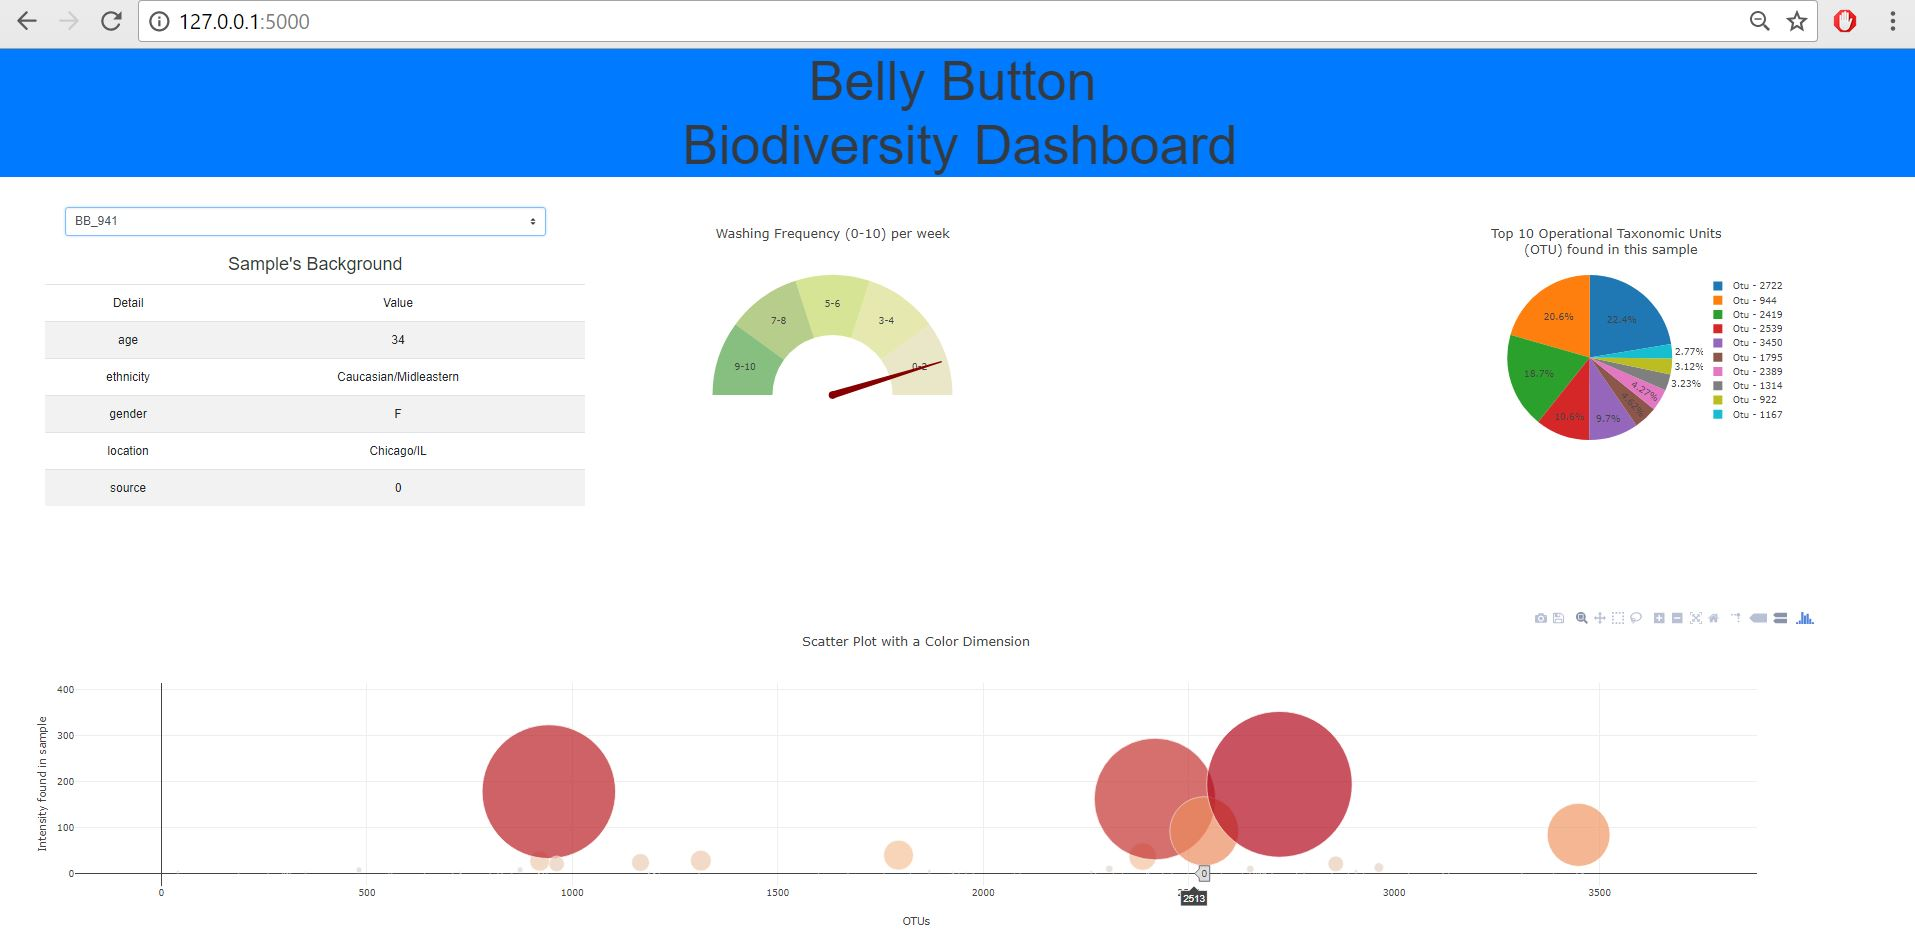
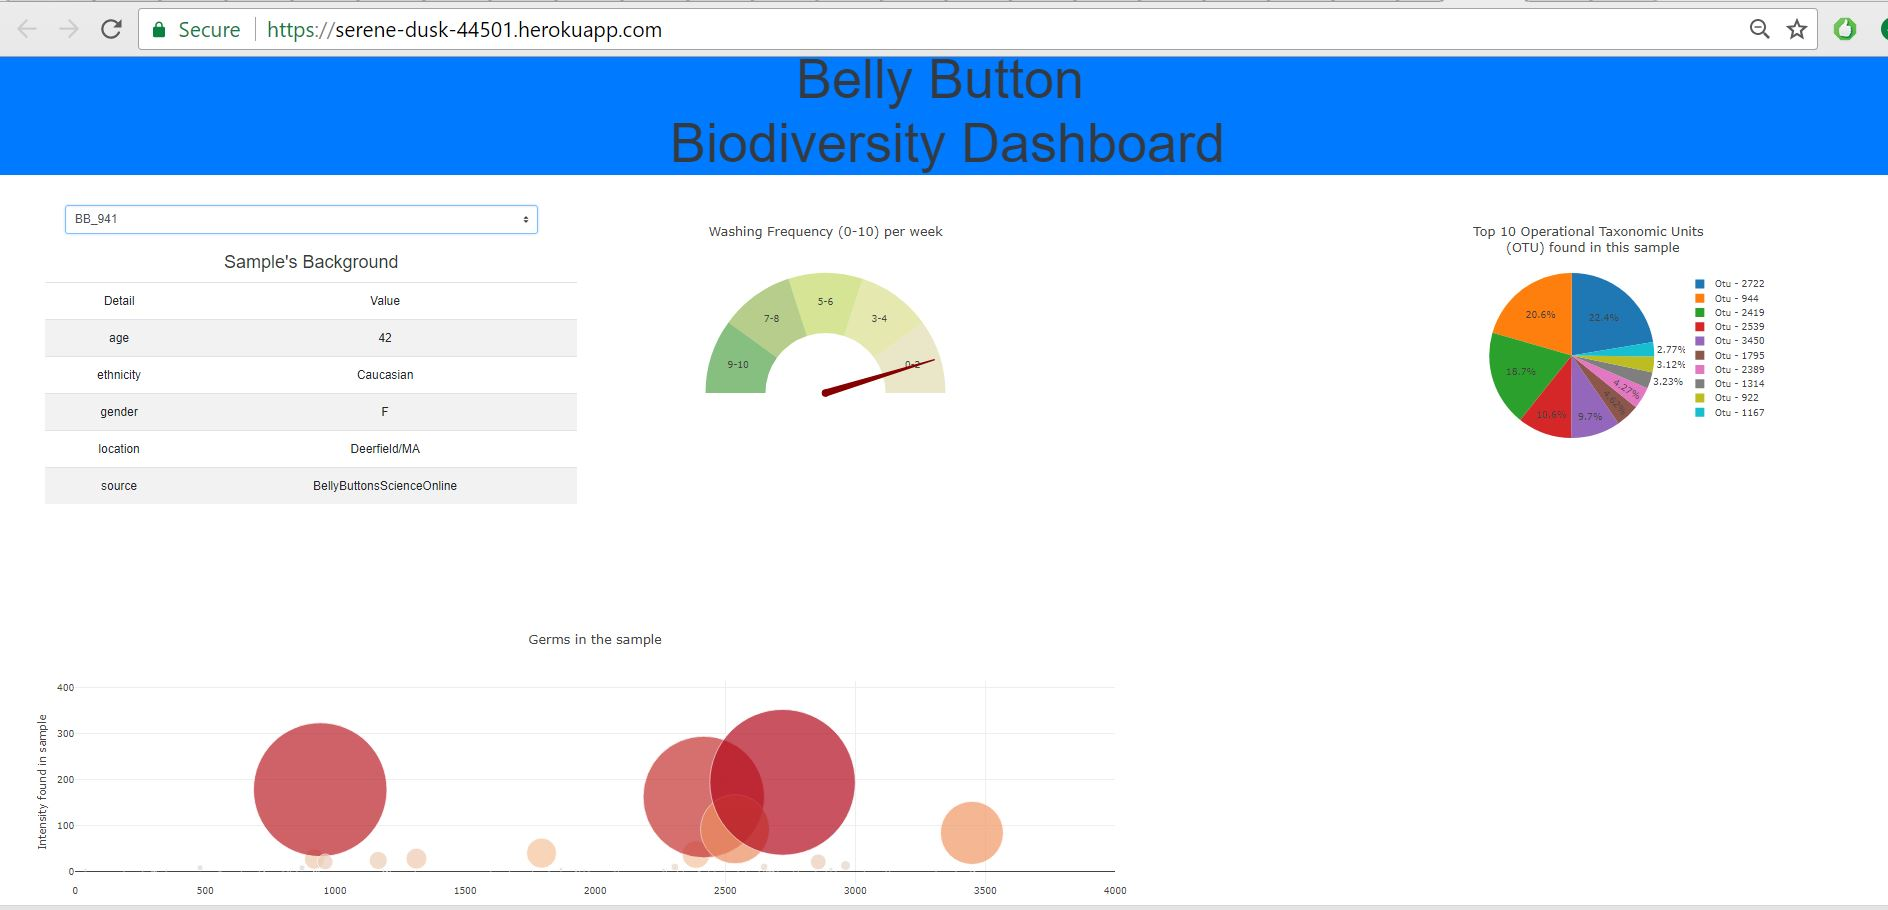
biodiversity website changes

diff --git a/static/js/logic.js b/static/js/logic.js
@@ -13,32 +13,43 @@ function loadsample(sample){
 }
 
 function populateBubbleChart(otu_sample_data){
-    console.log("tryyyyyyyyyyyyyyyyyyy");
-    console.log(otu_sample_data);
+    console.log("tryyyyyyyyyyyyyyyyyyy bubble");
+    console.log("test - > ",otu_sample_data['y'])
+    console.log(d3.min(otu_sample_data['y']));
+    console.log(d3.max(otu_sample_data['y']));
 
-    otu_sample_data['mode'] = 'markers';
-    otu_sample_data['marker'] = {
-          size: otu_sample_data['y'].map(d=>Math.min(d*10,60)),
-          color: otu_sample_data['y'].map(d=>100+d*20)
-                }
+    var radiusScale = d3.scaleSqrt();
+
+    radiusScale.range([0,100]);
+
+    var rMin;
+    var rMax;
+    rMin = d3.min(otu_sample_data['y']);
+    rMax = d3.max(otu_sample_data['y']);
+
+    radiusScale.domain([rMin,rMax]);
+
+    console.log("Radius ->",otu_sample_data['y'].map(d=>radiusScale(parseInt(d))))
       
       var data = [{
         'y':otu_sample_data['y'],
         'mode':'markers',
         'marker':{
-            size: otu_sample_data['y'].map(d=>d),
-            color: otu_sample_data['y'].map(d=>100+d*20)
+            size: otu_sample_data['y'].map(d=>radiusScale(parseInt(d))),
+            color: otu_sample_data['y'].map(d=>radiusScale(parseInt(d)))
                   }
       }];
+
+      console.log(data);
       
       var layout = {
         title: 'Germs in the sample',
         xaxis: {
-             range: [ 0, 4000 ],
+             range: [0, 4000],
             title: "OTUs"
           },
           yaxis: {
-            // range: [-100, 1000],
+             range: [-1000, 5000],
             title: "Intensity found in sample"
           },
       };

diff --git a/templates/index.html b/templates/index.html
@@ -13,12 +13,15 @@
     <script src="https://maxcdn.bootstrapcdn.com/bootstrap/4.0.0/js/bootstrap.min.js"></script>
     <link rel="stylesheet" href="{{ url_for('static', filename='css/mystyle.css') }}">
     <script src="https://cdn.plot.ly/plotly-latest.min.js"></script>
+    <script src="https://d3js.org/d3.v4.min.js"></script>
+  <link href="https://fonts.googleapis.com/css?family=Dosis" rel="stylesheet">
+  
 
 </head>
 
 <body>
     <header style="font-family: 'Helvetica Neue',Helvetica,Arial,sans-serif;">
-        <div class="text-dark bg-primary">
+        <div class="text-light bg-secondary">
             <div class="display-3 text-center">
                 <strong>
                     Belly Button <br> Biodiversity Dashboard

diff --git a/static/css/mystyle.css b/static/css/mystyle.css
@@ -13,3 +13,10 @@
     min-width:90%;
     max-width:95%;
 }
+
+body, div, strong {
+    font-family: 'Dosis', sans-serif;
+    position: relative;
+    width: 100%;
+    height: 100%;
+  }
